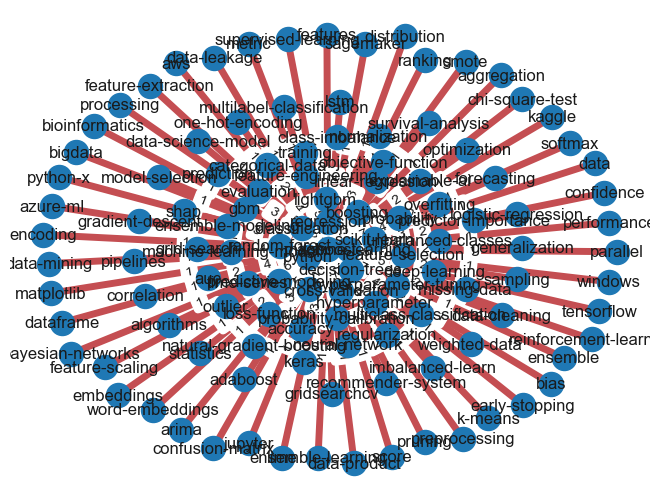
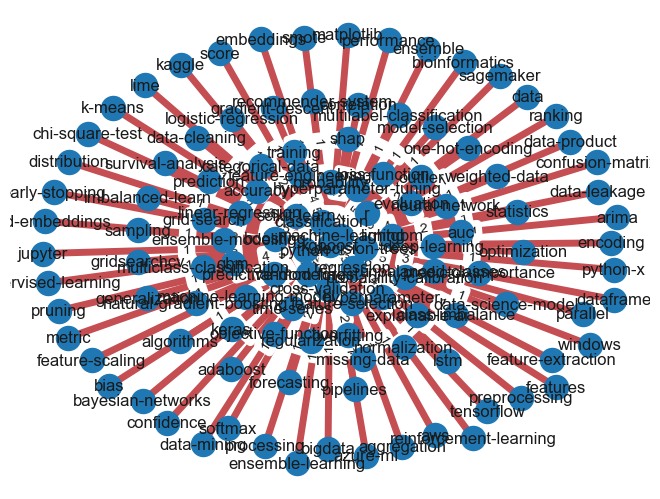
word2vec tag recommmender code is add.

diff --git a/static/styles.css b/static/styles.css
@@ -80,14 +80,14 @@ input[type="submit"]:hover {
 
 p.rel-tag {
   font-size: 3rem;
-  width: 65%;
+  width: 85%;
   text-align: justify;
   font-family: "Lucida Sans", "Lucida Sans Unicode", Geneva, Verdana, sans-serif,
     sans-serif; /*"Montaga" */
   margin-left: auto;
   margin-right: auto;
   border: solid;
-  border-width: 20px;
+  border-width: 15px;
   border-color: blue;
 }
 
@@ -103,6 +103,19 @@ img {
 
 img:hover {
   box-shadow: 0 0 2px 1px rgba(0, 140, 186, 0.5);
+}
+
+p.word2vec-rel-tag {
+  font-size: 3rem;
+  width: 85%;
+  text-align: justify;
+  font-family: "Lucida Sans", "Lucida Sans Unicode", Geneva, Verdana, sans-serif,
+    sans-serif; /*"Montaga" */
+  margin-left: auto;
+  margin-right: auto;
+  border: solid;
+  border-width: 15px;
+  border-color: blue;
 }
 
 footer {

diff --git a/templates/retrieve-search.html b/templates/retrieve-search.html
@@ -21,7 +21,7 @@
           </li>
         </ul>
 
-        <h1>Most Related Tags Recommender</h1>
+        <h1>Most Related Tags Based on Graph</h1>
         <div class="">
           <p class="rel-tag">
             {{related_tags}}
@@ -32,6 +32,12 @@
           <img src="{{ graph_image }}" alt=" weighted-graph image" />
         </div>
       </div>
+      <div>
+        <p class="word2vec-rel-tag">
+          {{word2vec_tags}}
+        </p>
+      </div>
+
       <br />
       <br />
       <br />

diff --git a/stackexg_module.py b/stackexg_module.py
@@ -6,11 +6,12 @@ import seaborn as sb
 import networkx as nx
 import re
 import os, time, math
-
-
-# %matplotlib inline
+from gensim.models import Word2Vec
 
 sb.set()
+
+# data folder path
+data_filepath = "static/data/tags.csv"
 
 
 def file_update_time():
@@ -26,7 +27,7 @@ def file_update_time():
     return time_difference >= two_days_in_seconds
 
 
-def convert_json_data(json_data):
+def convert_to_json(json_data):
     """convert json to python list format"""
     list_data = []
     dict_data = json.loads(json_data)
@@ -56,7 +57,7 @@ def get_stackexg_data():
         if (
             req_json_data.status_code == 200
         ):  # check request is successful before parsing webpage data
-            rows_list_data = convert_json_data(req_json_data.text)
+            rows_list_data = convert_to_json(req_json_data.text)
             for row in rows_list_data:
                 tags.append(row)
         else:
@@ -87,7 +88,7 @@ def load_data(filename):
     # remove the double-quote via regex
     tags = [(re.sub(r"[^a-zA-Z -]+", "", tag)).split() for tag in df_tags]
 
-    return tags
+    return tags  #  a list of lists
 
 
 # edges and weights update
@@ -162,7 +163,7 @@ def has_multiple_words(text):  # accepts input from users
 
 
 def bruteforce_main_graph(key_word):
-    data_filepath = "static/data/tags.csv"
+
     # read the api codes to get the data from stackexg pages
     get_stackexg_data()  # overwrites into the data file if needs update
     tags = load_data(data_filepath)
@@ -173,35 +174,61 @@ def bruteforce_main_graph(key_word):
 
     G = draw_graph(edges_list)  # [:500]
 
-    # file to store user's search related tags to be displayed in browser
-    # filename = "static/graph_related_tags/tags.txt"
-    # file = open(filename, "w+")
-    key_word = has_multiple_words(key_word)
-
     # search for query node in the graph:brute-force search
+    graph_tags_name = ""
     if G.has_node(key_word):
         query_edges = list(G.edges(key_word))
         g = draw_query_graph(G, query_edges, key_word)
         weights = nx.get_edge_attributes(g, "weight")
         sorted_weights = sorted(weights.items(), key=lambda x: x[1], reverse=True)
 
-        top_related_tags = 100  # top 50 related tags
-        tags_name = ""
+        top_related_tags = 100  # top 100 related tags
         for count, tag in enumerate(sorted_weights):
             u, v = tag[0]
             w = tag[1]
-            tags_name += " [({} , {}): {} times ] , ".format(u, v, w)
+            graph_tags_name += " ({} & {}: {} times) , ".format(u, v, w)
             if count == top_related_tags:
                 break
 
     else:
-        tags_name = "Entered node <{}> does not exist or probably less commmon term.try other words!".format(
+        graph_tags_name += "Entered node <<{}>> does not exist or probably less commmon term.try other words!".format(
             key_word
         )
 
-    return tags_name
+    return graph_tags_name
+
+
+#         **********************Word2Vec tag recommender starts here********************************
+
+
+def train_word2vec_model(data):
+    # creare a model object
+    model = Word2Vec(
+        data, min_count=5, size=512, window=10, iter=40
+    )  # train the model with the data
+    return model
+
+
+def get_word2vec_tags(key_word, top_related_tags=100):
+    """returns the most similar tags recommended based on word2vec model"""
+    tags = load_data(data_filepath)
+    model = train_word2vec_model(tags)  # train the word2vec model
+    word2vec_related_tags = ""
+    try:
+        most_similar_words = model.wv.most_similar(key_word, topn=top_related_tags)
+        for word in most_similar_words:
+            word2vec_related_tags += "({} & {}: {:.2f}%) , ".format(
+                key_word, word[0], word[1] * 100
+            )
+    except:
+        word2vec_related_tags += " word << {} >> is not in word2vec model's training vocabularies.try other words!".format(
+            key_word
+        )
+
+    return word2vec_related_tags
 
 
 # if __name__ == "__main__":
-#     bruteforce_main_graph()
+#     rel_tags = get_word2vec_tags(key_word)
+#     bruteforce_main_graph(key_word)
 

diff --git a/webApp.py b/webApp.py
@@ -4,6 +4,7 @@ import os
 IMAGE_FOLDER = os.path.join("static", "graph_images")
 # import my module that scrapes the stackoverflow data science web-pages
 from stackexg_module import bruteforce_main_graph, has_multiple_words
+from stackexg_module import get_word2vec_tags
 
 
 app = Flask(__name__)  # create instance of flask app
@@ -20,14 +21,17 @@ def input_query_form():
 def retrieve_search():
     if request.method == "POST":
         entered_word = request.form["text"]
-        related_tags = bruteforce_main_graph(entered_word)
         key_word = has_multiple_words(entered_word)
+        graph_related_tags = bruteforce_main_graph(key_word)
+        word2vec_related_tags = get_word2vec_tags(key_word)
+
         full_filename = os.path.join(app.config["UPLOAD_FOLDER"], key_word + ".png")
 
         return render_template(
             "retrieve-search.html",
-            related_tags=related_tags,
+            related_tags=graph_related_tags,
             graph_image=full_filename,
+            word2vec_tags=word2vec_related_tags,
         )
 
     else:
